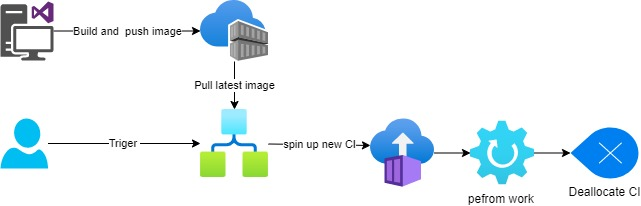
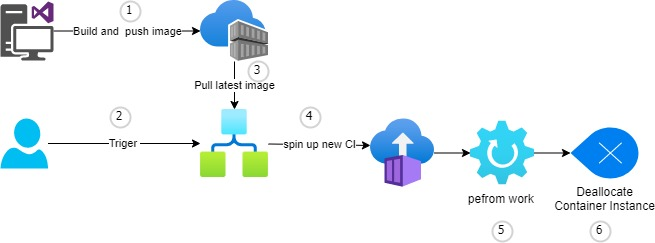
Update readme

diff --git a/README.MD b/README.MD
@@ -1,11 +1,12 @@
 # Running .net console application on Azure container instance 
 
-We sometimes have the need to use a console application to perform some computational tasks. Sometimes these tasks are run on a schedule that's weekly or less often.   I would like to run these processors on serverless cloud infrastructure so that you are only billed when service is utilized.
+We sometimes have the need to use a batch (console) application to perform some computational tasks. These tasks may run on a schedule, however may not run often enough to justify setting up a dedicated deployment/run pipeline.  I would like to run these processors on serverless cloud infrastructure so that you are only billed when service is utilized, and use low-code options for setup.  
 
-Below I have described my experiment on how I tried to achieve this objective using Docker, Azure Container Instances service, and Azure Logic Apps.
+Below I have described my experiment on how I tried to achieve this objective using Docker, Azure [Container Instances](https://learn.microsoft.com/en-us/azure/container-instances) service, and Azure [Logic Apps](https://learn.microsoft.com/en-us/azure/logic-apps).
 
 ### High-level process overview
 ![Console App on CI Process](doc/img/console-on-ci.jpg)
+![Console App on CI Process](doc/img/console-on-ci.drawio)
 
 *High-level steps*
 
@@ -19,8 +20,9 @@ Below I have described my experiment on how I tried to achieve this objective us
 ## Experiment 
 
 ### Prerequisites 
-* [Docker Desktop](https://www.docker.com/products/docker-desktop/) 
+* [Docker Desktop](https://www.docker.com/products/docker-desktop) 
 * [.NET SDK](https://dotnet.microsoft.com/en-us/download/visual-studio-sdks)
+* [Azure CLI](https://learn.microsoft.com/en-us/cli/azure)
 * [VS.Code](https://code.visualstudio.com)
 * (Optional) VS Code extensions 
   * C# v1.25.2
@@ -77,7 +79,8 @@ Console.WriteLine("End long running app");
 
    * Docker file is created 
 ![Add docker file](./doc/AddDockerSupport5DockerFileAdded.png)
-Docker file 
+
+Example of the docker file thats generated 
 ```yaml
 FROM mcr.microsoft.com/dotnet/runtime:7.0 AS base
 WORKDIR /app
@@ -108,10 +111,11 @@ ENTRYPOINT ["dotnet", "helloConsole.dll"]
 ![Add docker file](./doc/LaunchProjectInDocker.png)
 
 ### Setup Azure infrastructure 
-I used Azure portal to setup resources, however when I had a working version I created [bicep](Infrastructure/template.bicep) and [arm](Infrastructure/template.json) template to make setup simpler. Template sets up Azure Container Registry (if required), and Azure logic app.  
-
-
 [![Deploy to Azure](https://aka.ms/deploytoazurebutton)](https://portal.azure.com/#create/Microsoft.Template/uri/https%3A%2F%2Fraw.githubusercontent.com%2FTharinduK%2FAzureExperiments-console-in-ci%2Fmain%2FInfrastructure%2Ftemplate.json)
+
+I used Azure portal to setup resources, however when I had a working version I created [bicep](Infrastructure/template.bicep) and [arm](Infrastructure/template.json) template to make setup simpler. Use the "Deploy to Azure" button to deploy an ARM Template to seutp the following resources: 
+1. Azure Container Registry (if required)
+2. Azure logic app
 
 > Note: I have not been able to get logic app connection to the container registry working with biceps. Currently you would need to add a new connection using your credentials.
 
